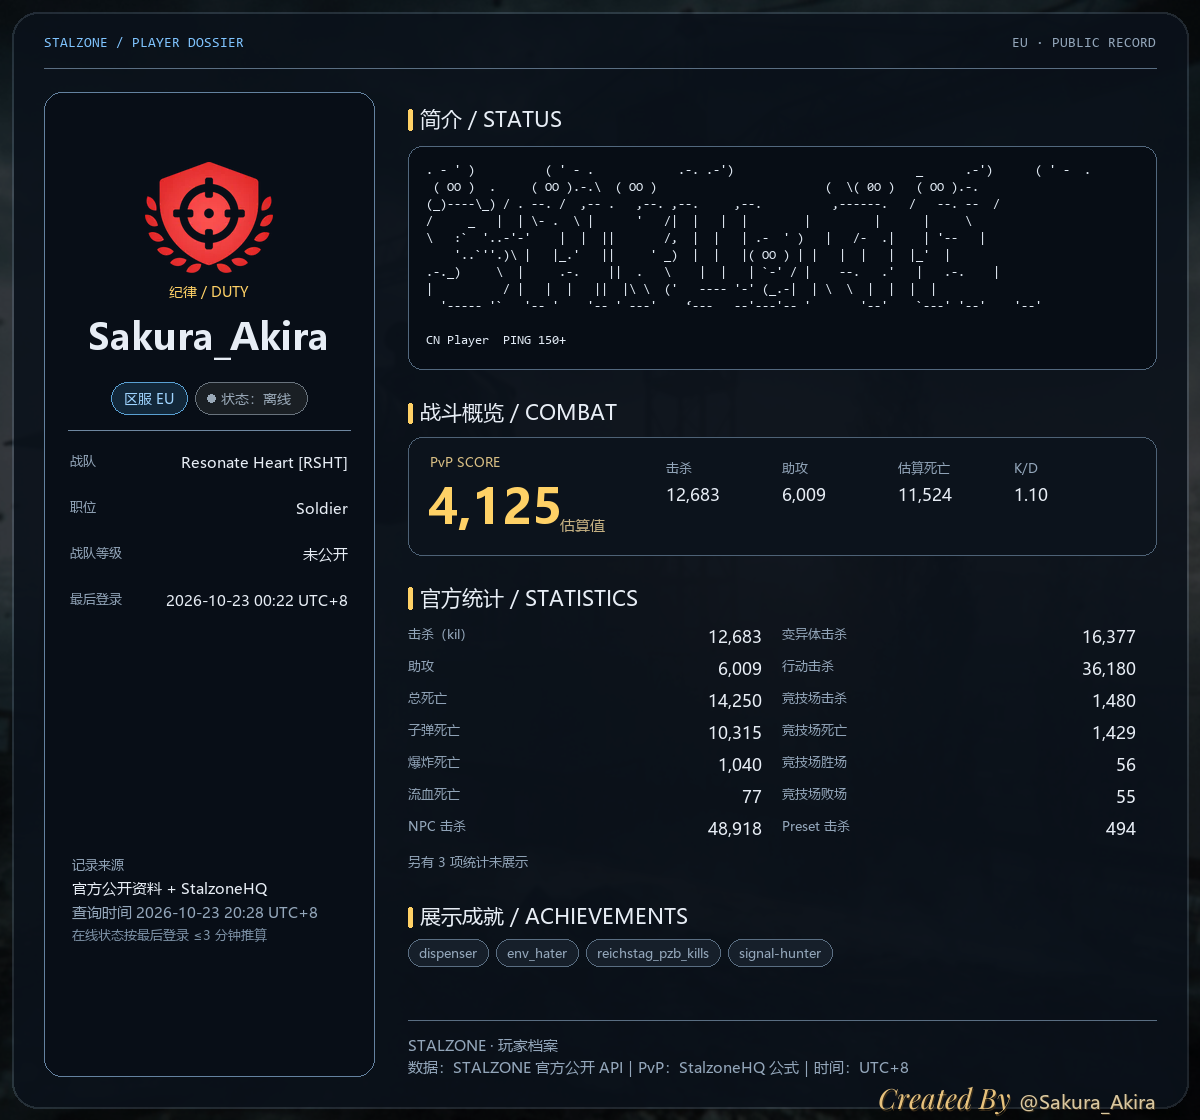
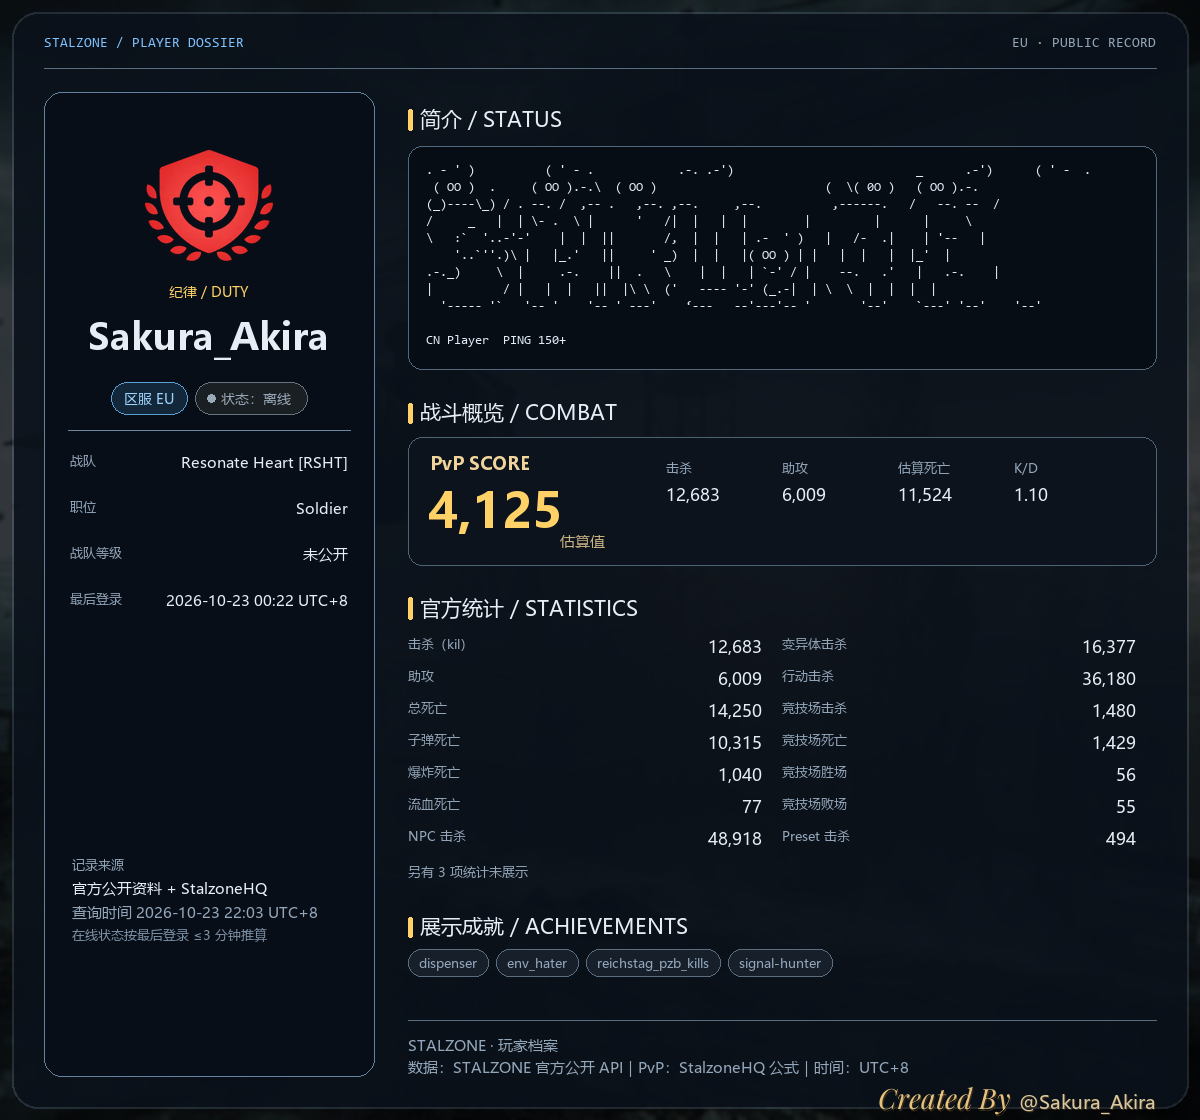
style: adjust player emblem and PvP label

diff --git a/image_renderer.py b/image_renderer.py
@@ -1632,6 +1632,7 @@ def render_profile_card(
         metric_font = ImageFont.truetype(str(path), 17)
         score_font = ImageFont.truetype(str(display_path), 54)
         hero_score_font = ImageFont.truetype(str(display_path), 48)
+        pvp_label_font = ImageFont.truetype(str(display_path), 18)
         mono_font = ImageFont.truetype(str(mono_path or path), 14)
     except Exception:
         return None
@@ -1710,7 +1711,7 @@ def render_profile_card(
                 faction = faction.crop(bbox)
             faction.thumbnail((176, 176), Image.LANCZOS)
             fx = left_x + (left_w - faction.width) // 2
-            image.alpha_composite(faction, (fx, rail_top + 70))
+            image.alpha_composite(faction, (fx, rail_top + 58))
         except Exception:
             pass
     faction_label = f"{view.get('alliance', '未知')} / {str(view.get('alliance_raw') or '').upper()}"
@@ -1828,14 +1829,14 @@ def render_profile_card(
     )
     panel_y = section_y + 40
     draw.rounded_rectangle(
-        (right_x, panel_y, right_x + right_w, panel_y + 118),
+        (right_x, panel_y, right_x + right_w, panel_y + 128),
         radius=14, fill=(12, 19, 28, 195),
         outline=(78, 98, 118, 70), width=1,
     )
     if hq:
-        draw.text((right_x + 22, panel_y + 16), "PvP SCORE", font=label_font, fill="#D8BE83")
-        draw.text((right_x + 20, panel_y + 36), f"{hq.get('score', 0):,}", font=hero_score_font, fill="#FFD166")
-        draw.text((right_x + 152, panel_y + 78), "估算值", font=small_font, fill="#C6B182")
+        draw.text((right_x + 22, panel_y + 13), "PvP SCORE", font=pvp_label_font, fill="#F0D49C")
+        draw.text((right_x + 20, panel_y + 40), f"{hq.get('score', 0):,}", font=hero_score_font, fill="#FFD166")
+        draw.text((right_x + 152, panel_y + 94), "估算值", font=small_font, fill="#C6B182")
         values = [
             ("击杀", f"{hq.get('kills', 0):,}"),
             ("助攻", f"{hq.get('assists', 0):,}"),
@@ -1848,7 +1849,7 @@ def render_profile_card(
             draw.text((mx, panel_y + 46), value, font=metric_font, fill=TEXT)
     else:
         draw.text((right_x + 22, panel_y + 42), "暂无 PvP 统计", font=body_font, fill=MUTED)
-    ry = panel_y + 118 + 28
+    ry = panel_y + 128 + 28
 
     section_label_y = ry
     _draw_section_heading(

diff --git a/api_client.py b/api_client.py
@@ -29,7 +29,7 @@ DEFAULT_MAX_RETRIES = 2
 DEFAULT_RETRY_BASE_DELAY = 0.5
 RETRY_STATUS_CODES = frozenset({429, 500, 502, 503, 504})
 VALID_REGIONS = frozenset({"ru", "eu", "na", "sea", "nea"})
-USER_AGENT = "astrbot-plugin-stalzone/1.0.16"
+USER_AGENT = "astrbot-plugin-stalzone/1.0.17"
 
 _ITEM_ID_RE = re.compile(r"^[^\x00-\x1f/\\]{1,128}$")
 

diff --git a/main.py b/main.py
@@ -178,7 +178,7 @@ UUID_RE = re.compile(
     r"^[0-9a-fA-F]{8}-[0-9a-fA-F]{4}-[0-9a-fA-F]{4}-[0-9a-fA-F]{4}-[0-9a-fA-F]{12}$"
 )
 ITEM_ID_RE = re.compile(r"^[A-Za-z0-9_-]{1,128}$")
-PLUGIN_VERSION = "1.0.16"
+PLUGIN_VERSION = "1.0.17"
 SZ_BARE_RE = r"(?i)^\s*(?:sz|stalzone)(?:@\S+)?\s+"
 
 

diff --git a/README.en.md b/README.en.md
@@ -7,7 +7,7 @@
 Auction · Emissions · Players · Clans · Items · Candidates · Season Pass
 
 ![AstrBot](https://img.shields.io/badge/AstrBot-plugin-5865F2?style=flat-square)
-![Version](https://img.shields.io/badge/version-1.0.16-22c55e?style=flat-square)
+![Version](https://img.shields.io/badge/version-1.0.17-22c55e?style=flat-square)
 ![Python](https://img.shields.io/badge/Python-3.10%2B-3776AB?style=flat-square)
 ![Platform](https://img.shields.io/badge/platform-QQ%20%2F%20OneBot-F97316?style=flat-square)
 ![API](https://img.shields.io/badge/data-Official%20STALZONE%20API-0EA5E9?style=flat-square)

diff --git a/README.md b/README.md
@@ -7,7 +7,7 @@
 拍卖 · 风暴 · 玩家 · 战队 · 物品 · 候选卡 · 通行证计算
 
 ![AstrBot](https://img.shields.io/badge/AstrBot-plugin-5865F2?style=flat-square)
-![Version](https://img.shields.io/badge/version-1.0.16-22c55e?style=flat-square)
+![Version](https://img.shields.io/badge/version-1.0.17-22c55e?style=flat-square)
 ![Python](https://img.shields.io/badge/Python-3.10%2B-3776AB?style=flat-square)
 ![Platform](https://img.shields.io/badge/platform-QQ%20%2F%20OneBot-F97316?style=flat-square)
 ![API](https://img.shields.io/badge/data-Official%20STALZONE%20API-0EA5E9?style=flat-square)

diff --git a/CHANGELOG.md b/CHANGELOG.md
@@ -3,6 +3,13 @@
 All notable changes to this project are documented here.
 The project follows [Semantic Versioning](https://semver.org/).
 
+## 1.0.17 - 2026-10-23
+
+### Changed
+
+- Moved the player-card faction emblem up slightly.
+- Enlarged the `PvP SCORE` label from 13px to 18px, brightened it, and adjusted the panel height so the score and “估算值” do not collide.
+
 ## 1.0.16 - 2026-10-23
 
 ### Fixed
